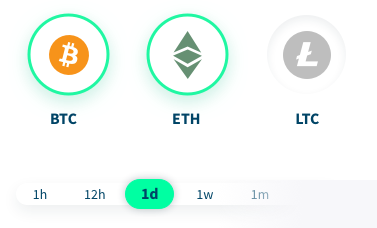
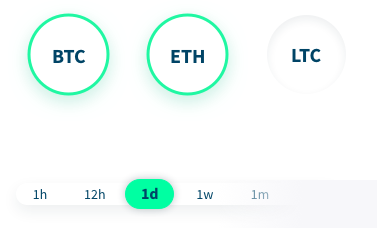
Update landing page graphics and copy

diff --git a/src/components/TheLanding.vue b/src/components/TheLanding.vue
@@ -25,8 +25,8 @@
       <div class="keep-simple">
         <div class="info-text">
           <h2>Let’s keep things simple.</h2>
-          <p>Quickly see an overview of your cyrptocurrency<br>
-            investments and their performance over time.</p>
+          <p>Quickly see an overview of all your cyrptocurrency<br>
+            investments. Dive into details on the graph page.</p>
         </div>
         <img class="keep-simple-graphic" src="../assets/keep-simple-graphic.svg" width="312px" height="230px">
       </div>
@@ -35,7 +35,7 @@
         <img class="see-what-graphic" src="../assets/see-graphic@2x.png">
         <div class="info-text">
           <h2>See what you want,<br>when you want.</h2>
-          <p>Choose which investments you want to compare<br>and the length of time to track them over.</p>
+          <p>Toggle coin investments you want to compare in your<br>history and the length of time to track them over in graphs.</p>
         </div>
       </div>
 
@@ -110,7 +110,6 @@ export default Vue.extend({
     height: 1250px;
   }
 }
-
 
 .hero-bg-fade {
   width: 100%;
@@ -241,7 +240,7 @@ button:active {
 footer {
   width: 100%;
   height: 400px;
-  background: #01324A;
+  background: #01324a;
   position: absolute;
   bottom: 100;
   left: 0;
